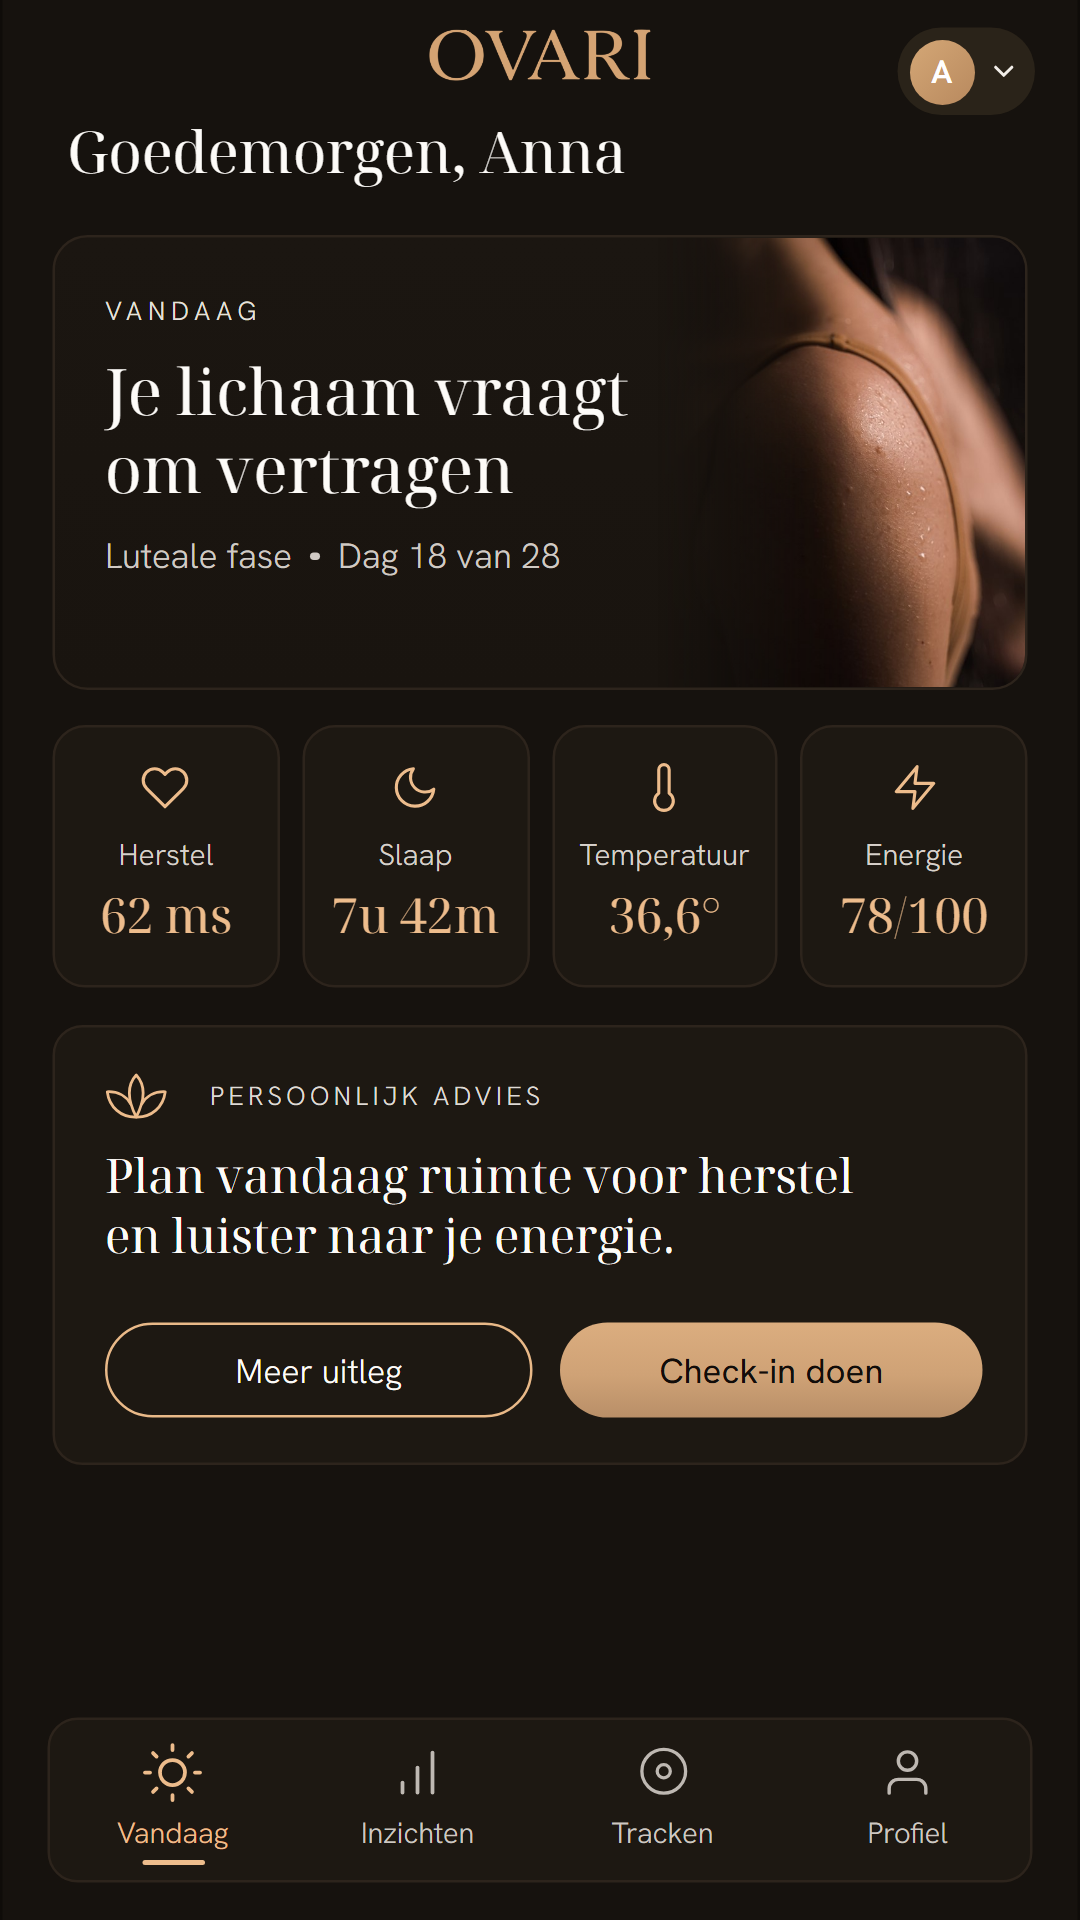
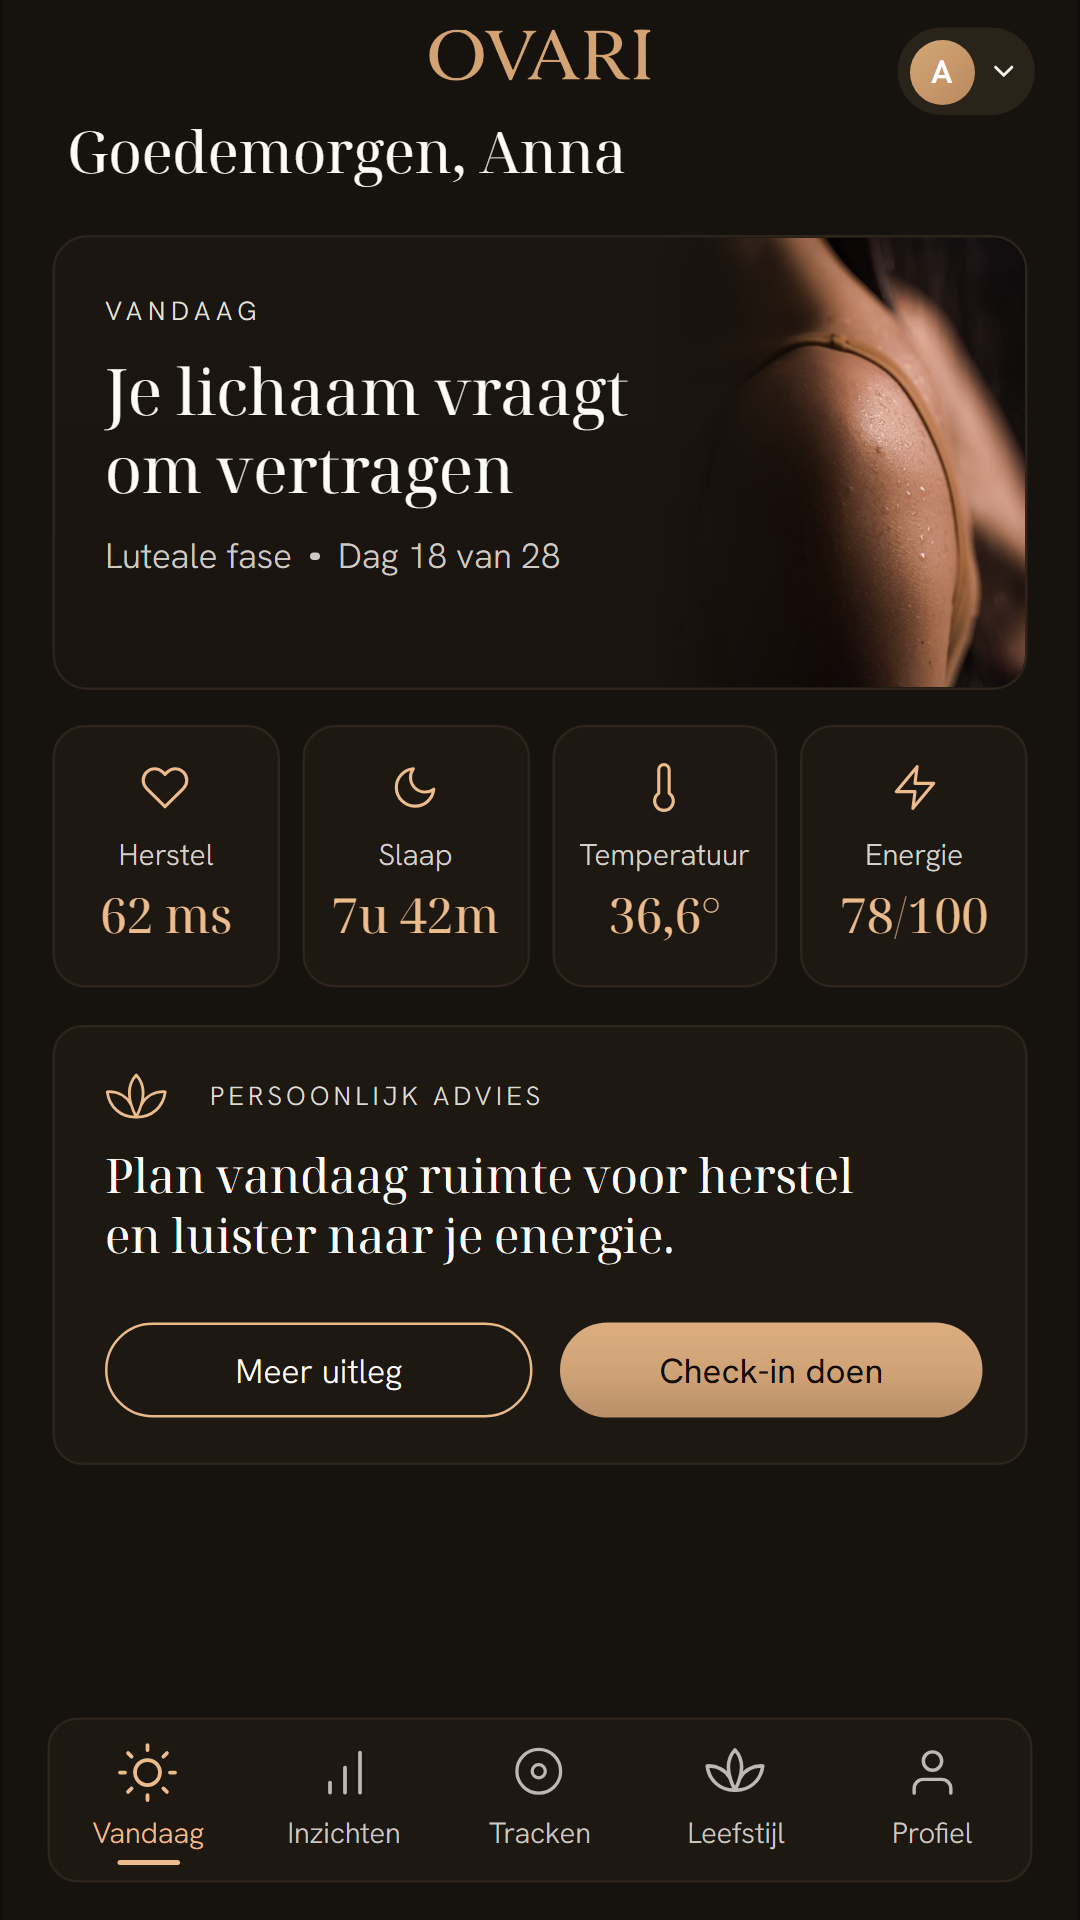
Bring Leefstijl back as a fifth tab and bump to versionCode 8
The redesign dropped the Leefstijl tab, which left the hub and the
personal trainer card reachable only via Meer uitleg on the home. NavV2
now has Vandaag, Inzichten, Tracken, Leefstijl and Profiel, with the
lotus from the advice card as a shared icon. versionCode 8 because 7 may
already be uploaded; release notes and store screenshot updated.

diff --git a/src/pages/dashboard/DashboardV2Preview.jsx b/src/pages/dashboard/DashboardV2Preview.jsx
@@ -2,6 +2,7 @@ import { useState, useEffect } from 'react'
 import { useNavigate } from 'react-router-dom'
 import { Heart, Moon, Thermometer, Zap, User, Settings, LogOut, ChevronDown } from 'react-feather'
 import NavV2 from '../../components/NavV2'
+import LotusIcoon from '../../components/LotusIcoon'
 import { leefstijlAdvies } from '../../utils/leefstijlAdvies'
 import { getWearableReadings, clearToken } from '../../api/client'
 import { getSecure } from '../../utils/secureStorage'
@@ -47,16 +48,6 @@ function berekenFase(menstrualData) {
   return { fase, dag, cycleLength, bleed }
 }
 
-function Lotus() {
-  return (
-    <svg width="25" height="19" viewBox="0 0 25 19" fill="none" stroke={OKER} strokeWidth="1.1" strokeLinecap="round" strokeLinejoin="round" style={{ flexShrink: 0 }} aria-hidden="true">
-      <path d="M12.5 1C9.2 4.6 8.5 10 12.5 17.8C16.5 10 15.8 4.6 12.5 1Z" />
-      <path d="M12.5 17.8C6.4 18 1.7 13.9 0.9 7.7C5.1 7.5 8.5 9.5 10.3 12.6" />
-      <path d="M12.5 17.8C18.6 18 23.3 13.9 24.1 7.7C19.9 7.5 16.5 9.5 14.7 12.6" />
-    </svg>
-  )
-}
-
 function VandaagKaart({ faseInfo, onClick }) {
   return (
     <div onClick={onClick} style={{ position: 'relative', height: 181.5, margin: '19.9px 20px 0', borderRadius: 14, border: `1px solid ${RAND}`, background: 'linear-gradient(180deg, #1B1611 0%, #19140F 100%)', overflow: 'hidden', cursor: 'pointer', boxSizing: 'border-box', flexShrink: 0 }}>
@@ -90,7 +81,7 @@ function AdviesKaart({ tekst, onUitleg, onCheckin }) {
   return (
     <div style={{ position: 'relative', height: 176.5, margin: '14.6px 20px 0', borderRadius: 12, border: `1px solid ${RAND}`, background: KAART, boxSizing: 'border-box', padding: '0 20px', flexShrink: 0 }}>
       <div style={{ display: 'flex', alignItems: 'center', height: 18.7, marginTop: 18.2 }}>
-        <Lotus />
+        <LotusIcoon size={25} strokeWidth={1.1} color={OKER} />
         <span style={{ marginLeft: 16.9, fontSize: 10.5, lineHeight: 1, letterSpacing: '0.16em', color: '#DFDAD5', fontFamily: sans, fontWeight: 300 }}>PERSOONLIJK ADVIES</span>
       </div>
       <p style={{ margin: '10px 0 0', maxWidth: 312, fontFamily: serif, fontSize: 18.9, lineHeight: '24.7px', color: WIT, display: '-webkit-box', WebkitLineClamp: 2, WebkitBoxOrient: 'vertical', overflow: 'hidden' }}>{tekst}</p>

diff --git a/src/components/NavV2.jsx b/src/components/NavV2.jsx
@@ -1,7 +1,8 @@
 import { useNavigate, useLocation } from 'react-router-dom'
 import { Sun, BarChart, Disc, User } from 'react-feather'
+import LotusIcoon from './LotusIcoon'
 
-// Bottom-nav van het ingelogde deel: vier tabs in een zwevende kaart,
+// Bottom-nav van het ingelogde deel: vijf tabs in een zwevende kaart,
 // onderaan de kolom van de home en de Leefstijl-hub; op de overige ingelogde
 // pagina's zet App hem vast onderin (prop vast). Maten en kleuren komen uit het homeontwerp
 // van 13 sep 2026.
@@ -10,9 +11,10 @@ const sans = "'Hanken Grotesk', system-ui, sans-serif"
 const OKER = '#EDBC8C'
 
 const ITEMS = [
-  { icon: Sun, maat: 24, label: 'Vandaag', to: '/dashboard', paden: ['/dashboard', '/preview-v2', '/dashboard/leefstijl'] },
-  { icon: BarChart, maat: 24, label: 'Inzichten', to: '/dashboard/progress', paden: ['/dashboard/progress', '/health/cycle-analytics', '/health/perimenopause', '/health/wearable-cycle', '/wearable/hrv-insights', '/dashboard/wearable', '/dashboard/learning', '/dashboard/supplements'] },
+  { icon: Sun, maat: 24, label: 'Vandaag', to: '/dashboard', paden: ['/dashboard', '/preview-v2'] },
+  { icon: BarChart, maat: 24, label: 'Inzichten', to: '/dashboard/progress', paden: ['/dashboard/progress', '/health/cycle-analytics', '/health/perimenopause', '/health/wearable-cycle', '/wearable/hrv-insights', '/dashboard/wearable', '/dashboard/learning'] },
   { icon: Disc, maat: 21, label: 'Tracken', to: '/health/menstruation', paden: ['/health/menstruation', '/health/menstruation/history', '/health/symptoms', '/health/lifestyle-check'] },
+  { icon: LotusIcoon, maat: 24, label: 'Leefstijl', to: '/dashboard/leefstijl', paden: ['/dashboard/leefstijl', '/dashboard/supplements'] },
   { icon: User, maat: 22, label: 'Profiel', to: '/menu', paden: ['/menu', '/account', '/consent', '/wearable', '/support'] },
 ]
 

diff --git a/src/components/LotusIcoon.jsx b/src/components/LotusIcoon.jsx
@@ -1,0 +1,13 @@
+// Lotus-icoon uit het homeontwerp: drie open bladen die onderin samenkomen.
+// Gedeeld tussen het adviesblok op de home en de Leefstijl-tab in NavV2.
+// Zelfde props als react-feather (size, strokeWidth, color).
+export default function LotusIcoon({ size = 25, strokeWidth = 1.1, color = 'currentColor' }) {
+  const hoogte = Math.round(((size * 19) / 25) * 10) / 10
+  return (
+    <svg width={size} height={hoogte} viewBox="0 0 25 19" fill="none" stroke={color} strokeWidth={strokeWidth} strokeLinecap="round" strokeLinejoin="round" style={{ flexShrink: 0 }} aria-hidden="true">
+      <path d="M12.5 1C9.2 4.6 8.5 10 12.5 17.8C16.5 10 15.8 4.6 12.5 1Z" />
+      <path d="M12.5 17.8C6.4 18 1.7 13.9 0.9 7.7C5.1 7.5 8.5 9.5 10.3 12.6" />
+      <path d="M12.5 17.8C18.6 18 23.3 13.9 24.1 7.7C19.9 7.5 16.5 9.5 14.7 12.6" />
+    </svg>
+  )
+}

diff --git a/PLAY_STORE.md b/PLAY_STORE.md
@@ -140,7 +140,7 @@ Bij "Productie" of "Test" -> nieuwe release -> dit AAB uploaden.
 
 ---
 
-## Release 2.2.0 (versionCode 7, september 2026)
+## Release 2.2.0 (versionCode 8, september 2026)
 
 **Wat is er nieuw** (Play Console, max 500 tekens):
 
@@ -148,6 +148,6 @@ Nieuw in Ovari 2.2.0
 - Nieuw startscherm: je fase, herstel, slaap, temperatuur en energie in één oogopslag, met een persoonlijk advies voor vandaag.
 - Je blijft ingelogd: open je de app, dan kom je direct in je overzicht.
 - Cycluskalender: tik losse dagen aan, handig bij een onregelmatige cyclus.
-- Leefstijl overzichtelijker, met een nieuwe navigatie: Vandaag, Inzichten, Tracken en Profiel.
+- Leefstijl overzichtelijker, met een nieuwe navigatie: Vandaag, Inzichten, Tracken, Leefstijl en Profiel.
 
 Nieuwe eerste storescreenshot: `assets/screenshots/ovari-2.2-home.png` (1080x1920).

diff --git a/CLAUDE.md b/CLAUDE.md
@@ -121,7 +121,7 @@ Hardcoded in de v2-schermen en als --d-* tokens in index.html:
 - Smoked Umber `#2D2623` — dropdowns/tooltips; kaarten = `rgba(45,38,35,0.55)` + blur
 - Parchment White `#F5F2EB` — primaire tekst (secundair `#A8998A`, gedempt `#6B5D52`)
 - Warm Ochre `#D4A373` — accent/CTA (gradient-partner `#DFB88A`)
-- Home "Vandaag" (sep 2026): pagina `#16120E`, kaarten `#1D1812` met rand `#2D241C`, oker `#EDBC8C`; NavV2 = zwevende kaart met 4 tabs (Vandaag, Inzichten, Tracken, Profiel)
+- Home "Vandaag" (sep 2026): pagina `#16120E`, kaarten `#1D1812` met rand `#2D241C`, oker `#EDBC8C`; NavV2 = zwevende kaart met 5 tabs (Vandaag, Inzichten, Tracken, Leefstijl, Profiel)
 - Logo: src/assets/ovari-logo.jpg (bruine variant); PWA-iconen in public/ ervan afgeleid
 
 ---
